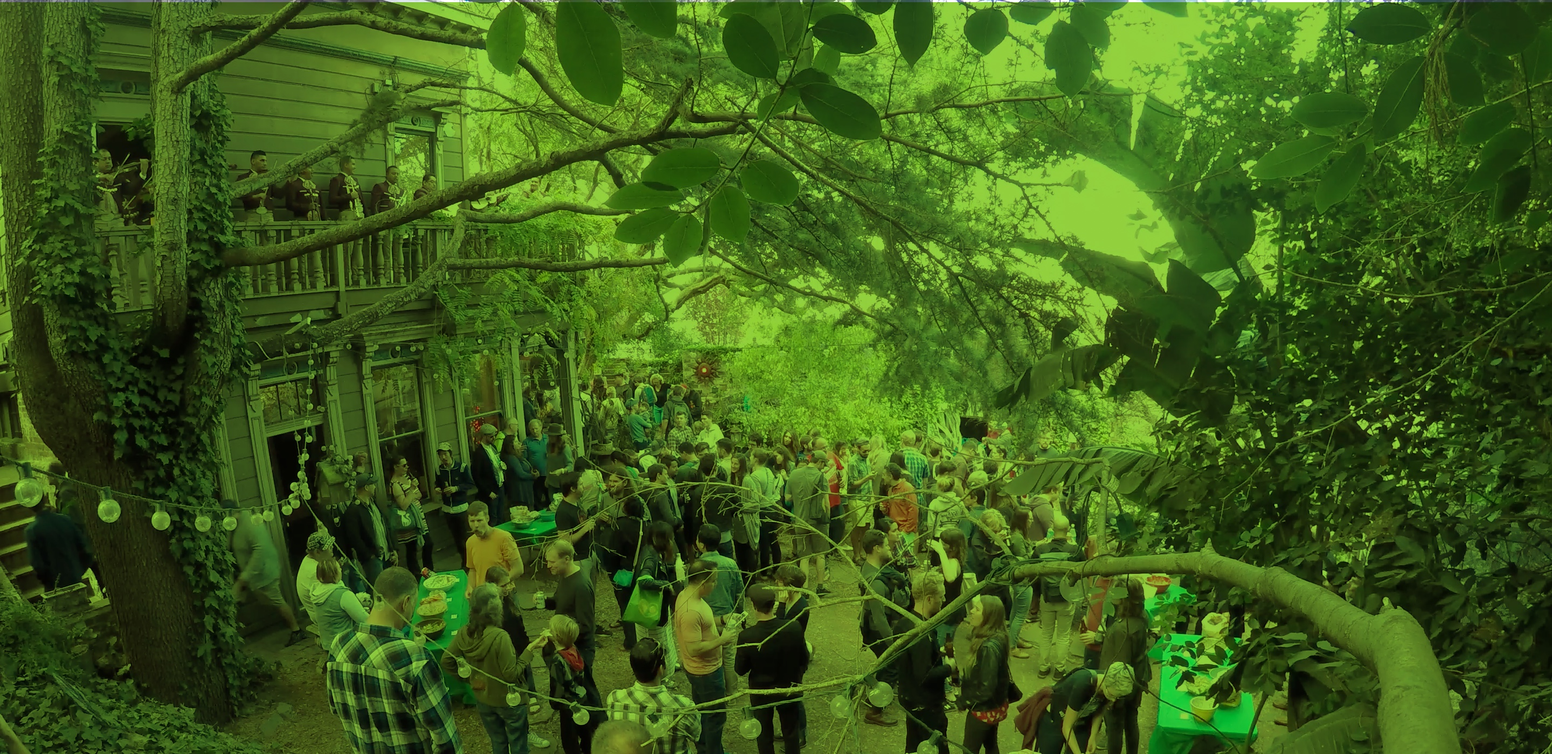
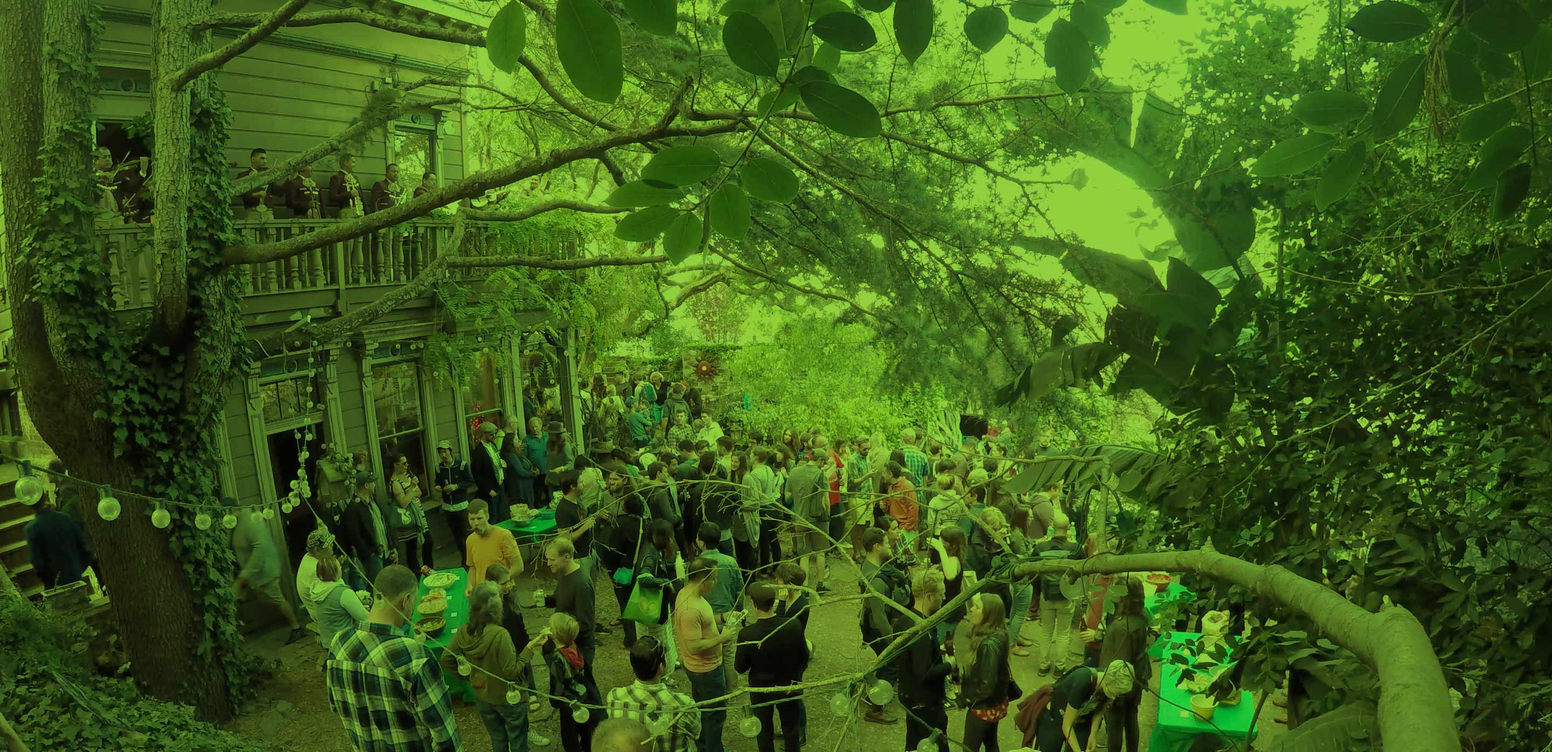
more fixes / video gif

diff --git a/public/styles/styles.css b/public/styles/styles.css
@@ -104,6 +104,10 @@ a:hover {
     text-decoration: underline;
 }
 
+p {
+    padding-bottom: 10px;
+}
+
 .green {
     color: #92D13E;
 }
@@ -212,7 +216,9 @@ video {
     min-width: 100%;
     transform: translateX(-50%);
     mix-blend-mode: multiply;
-    background-image: url(../img/hero_video@2x.jpg);
+    background-image: url(../img/guac_timelapse.gif);
+    background-size: 110%;
+    background-repeat: no-repeat;
 }
 
 .logo {
@@ -317,6 +323,10 @@ video {
     font-size: 22px;
     font-weight: 800;
     padding-bottom: 20px;
+}
+
+.time {
+    font-weight: 800;
 }
 
 .awards-section {
@@ -633,12 +643,21 @@ label.checkbox-inline {
         display: block;
     }
 
+    .hero {
+        max-height: 600px
+    }
+
     .columns-12 {
         padding: 0 15px;
     }
 
     .logo {
         width: auto;
+        top: 50px;
+    }
+
+    .play-button {
+        top: 0;
     }
 
     .intro {
